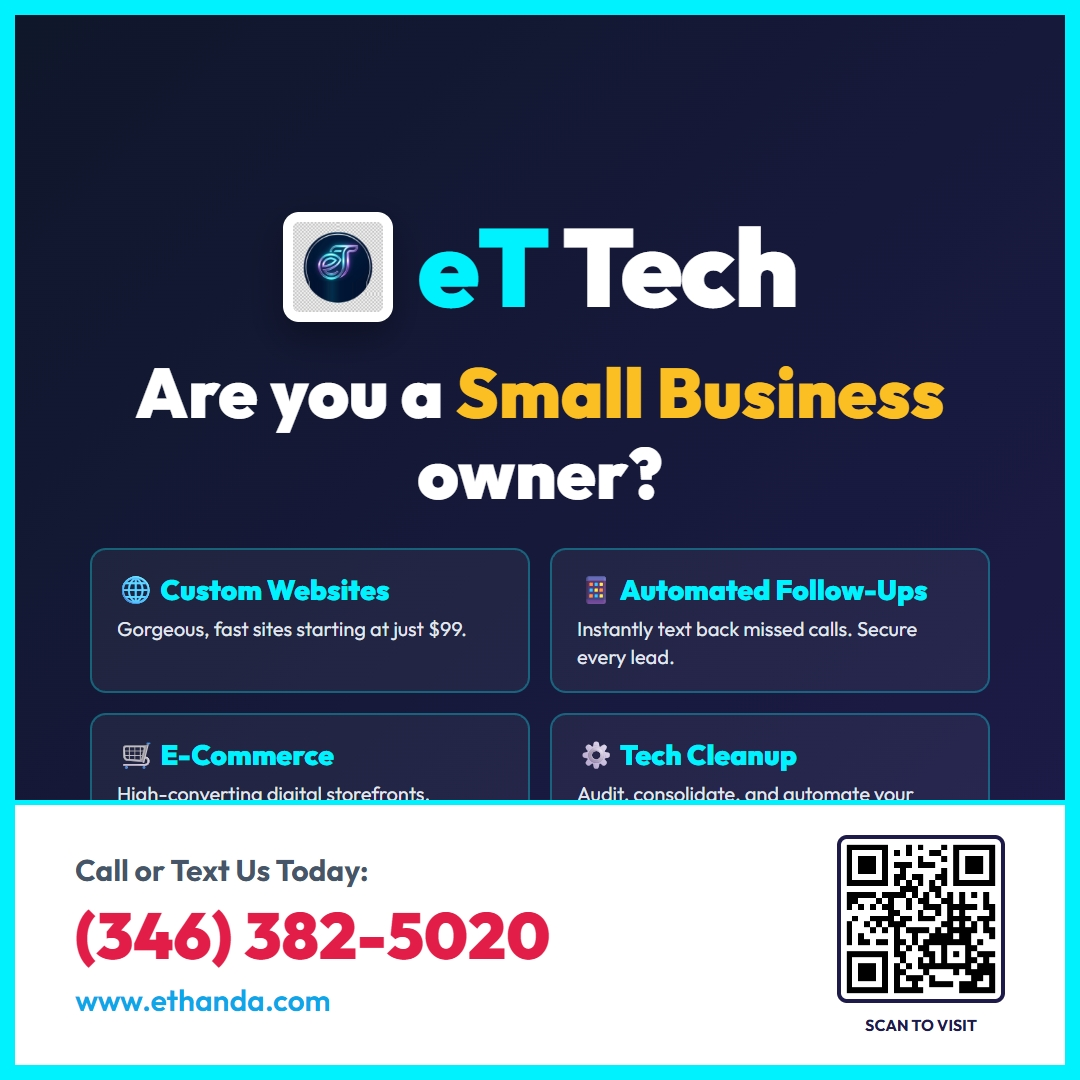
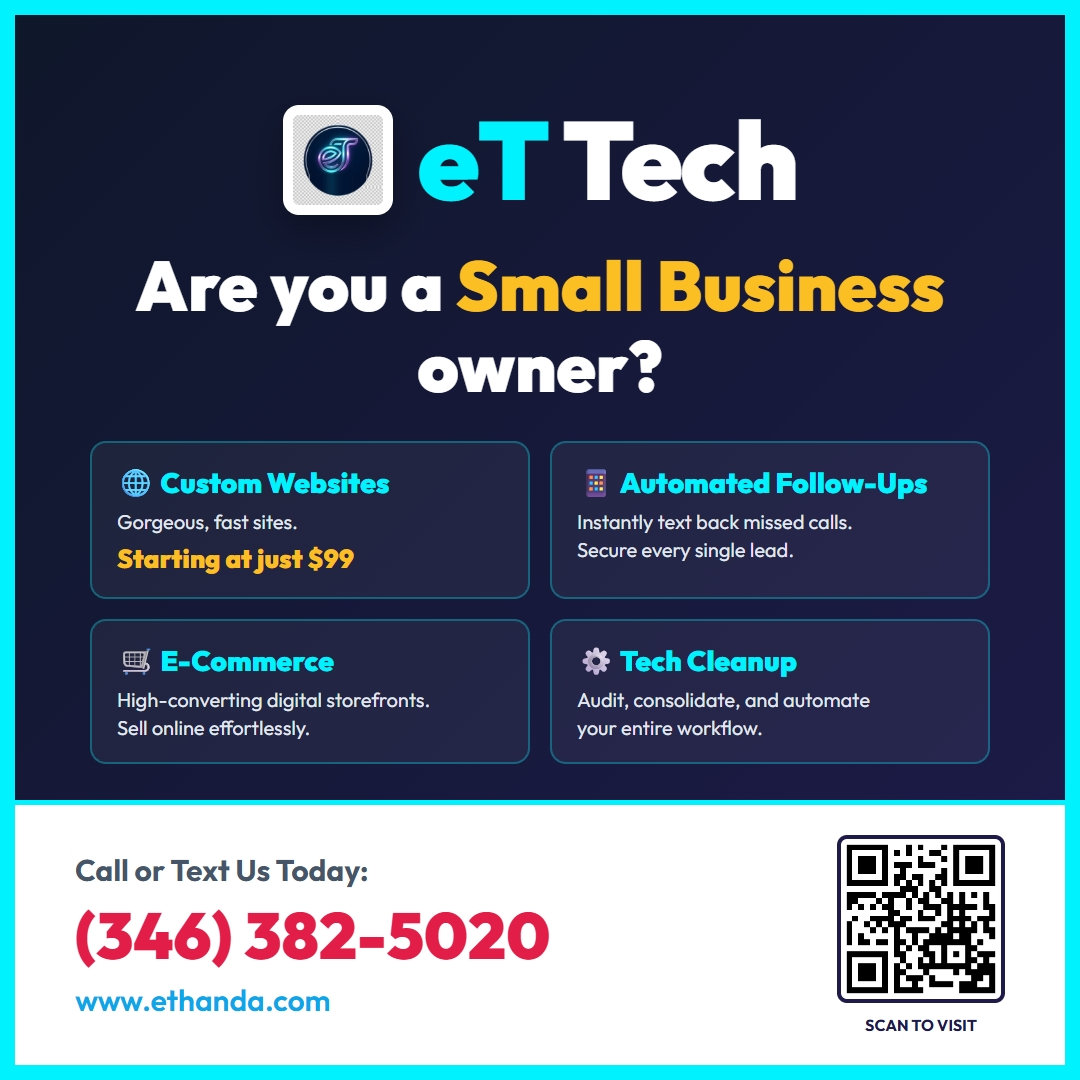
Fix social ad overlap and highlight  starting price

Changed region(s): [[0.0917, 0.0917, 0.9167, 0.7639], [0.8861, 0.7028, 0.9167, 0.7333], [0.8861, 0.4889, 0.9167, 0.5194]]

diff --git a/generate_social_ad.js b/generate_social_ad.js
@@ -34,7 +34,8 @@ const path = require('path');
                     box-sizing: border-box;
                     display: flex;
                     flex-direction: column;
-                    justify-content: center;
+                    justify-content: flex-start;
+                    padding-top: 70px;
                     align-items: center;
                     text-align: center;
                     position: relative;
@@ -152,19 +153,19 @@ const path = require('path');
             <div class="services-grid">
                 <div class="service-box">
                     <div class="service-title">🌐 Custom Websites</div>
-                    <div class="service-desc">Gorgeous, fast sites starting at just $99.</div>
+                    <div class="service-desc">Gorgeous, fast sites. <br><span style="color: #fbbf24; font-weight: 800; font-size: 26px; display: inline-block; margin-top: 5px;">Starting at just $99</span></div>
                 </div>
                 <div class="service-box">
                     <div class="service-title">📱 Automated Follow-Ups</div>
-                    <div class="service-desc">Instantly text back missed calls. Secure every lead.</div>
+                    <div class="service-desc">Instantly text back missed calls. <br>Secure every single lead.</div>
                 </div>
                 <div class="service-box">
                     <div class="service-title">🛒 E-Commerce</div>
-                    <div class="service-desc">High-converting digital storefronts.</div>
+                    <div class="service-desc">High-converting digital storefronts.<br>Sell online effortlessly.</div>
                 </div>
                 <div class="service-box">
                     <div class="service-title">⚙ Tech Cleanup</div>
-                    <div class="service-desc">Audit, consolidate, and automate your workflow.</div>
+                    <div class="service-desc">Audit, consolidate, and automate <br>your entire workflow.</div>
                 </div>
             </div>
             
